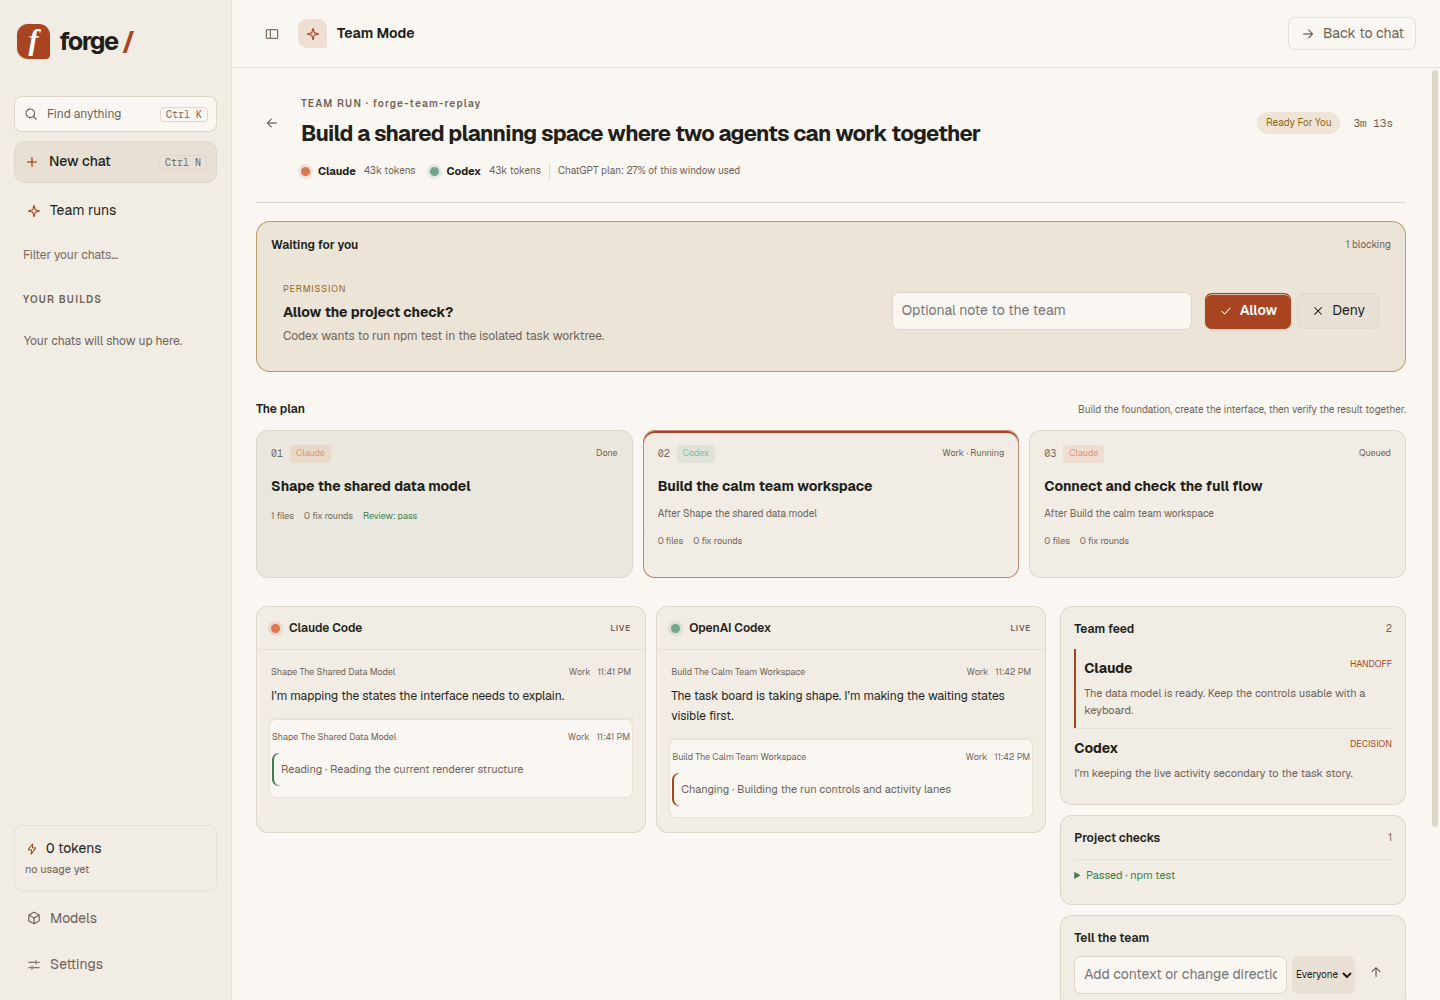
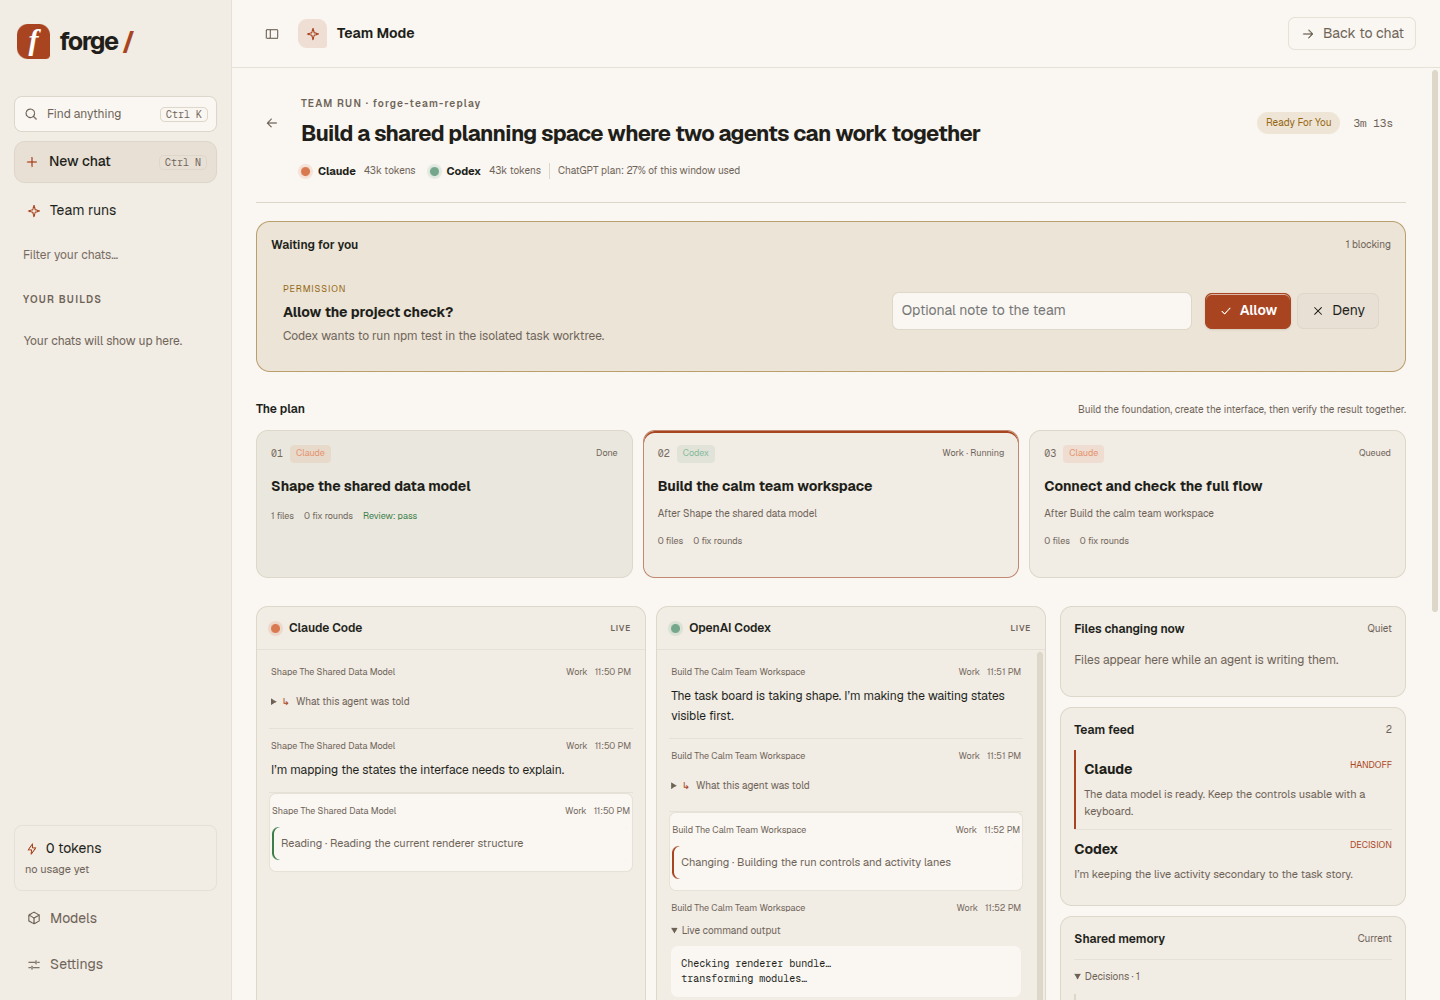
docs(ui): capture live Team views and Undo

diff --git a/docs/DESIGN.md b/docs/DESIGN.md
@@ -56,13 +56,15 @@ Team Mode is a control room, not a second chat screen. It opens from the compose
 
 - **Start with confidence.** Readiness cards show Claude Code and Codex separately, including the backend’s exact recovery command when one is unavailable. A run can start with either available agent. Advanced setup exposes planner, concurrency, cross-review, verification, agent models, Claude effort, budgets, and the usage threshold without crowding the default path. Team defaults round-trip through `teamSettingsGet/Set`.
 - **Follow the work as a story.** Task cards lead with plain-language outcomes and dependencies. Claude and Codex have distinct live lanes, while the team feed is reserved for handoffs, reviews, decisions, and user steering. Raw tool output remains inside disclosures. Usage is factual: tokens, backend cost when non-zero, and reported ChatGPT plan-window usage.
+- **See work while it is becoming.** Text deltas appear with a restrained typing cursor; thinking summaries and command output remain collapsible. Growing files replace themselves by event id instead of creating log noise. File content is syntax-highlighted locally with Monaco, while unified diffs use added/removed line color. The exact prompt for each task and phase is available behind “What this agent was told.”
+- **Keep shared context visible.** “Files changing now” comes from ephemeral `live` events and opens the exact working-tree file through `teamLiveDiff`. Shared memory groups current decisions, handoffs, messages and problems with relevant decisions, fixes and role history from earlier project runs. It refreshes on task and message events without interrupting the run.
 - **Intervene without losing context.** Soft pause waits for the current step; holding Pause performs the hard stop. Resume, cancel, retry, skip, budget extension, targeted steering, and blocking approval answers remain on the run. Interrupted runs explain that saved sessions can be resumed.
-- **Review before touching the project.** Unified diffs open on demand in a read-only Monaco diff editor and load its worker locally. The final report names changed files and verification status, then makes “Apply to my project” and “Don’t apply” explicit. Export uses `teamExportReport`; applying retains the backend checkpoint for Undo.
+- **Review before touching the project.** Unified diffs open on demand in a read-only Monaco diff editor and load its worker locally. The final report names changed files and verification status, then makes “Apply to my project” and “Don’t apply” explicit. Export uses `teamExportReport`. After Apply, a persistent Undo action warns that later hand edits to affected files will also be restored, then shows the `teamUndo` result.
 - **Return after a restart.** `teamList`, `teamGet`, and `teamEvents` rebuild the board and activity lanes. `onTeamEvent` applies live updates through the same renderer reducer, so replayed and live runs do not have separate visual semantics. Completed runs can be removed through `teamDelete`.
 - **Capability gating.** Team entry points stay hidden unless `window.forge.teamStart` exists. Optional settings, deletion, event subscription, and export controls are individually gated by hook presence.
 
 ### Team replay harness and verification
 
-The renderer includes a deterministic, quota-free replay fixture for planning, running, approval, paused, interrupted, unavailable-agent, and final states. Setting `forge.teamReplay` to `open` and `forge.teamReplayState` to a state before reload opens the fixture; the harness never calls `teamStart` or an agent CLI. It also exercises restart replay through the previous-runs list.
+The renderer includes a deterministic, quota-free replay fixture for planning, running, streaming, settled text, approval, paused, interrupted, unavailable-agent, final, and applied states. Scripted prompt, delta, growing-code, live-file, shared-memory, and Undo data exercise the same reducer and components as live hooks. Setting `forge.teamReplay` to `open` and `forge.teamReplayState` to a state before reload opens the fixture; the harness never calls `teamStart` or an agent CLI. It also exercises restart replay through the previous-runs list.
 
-On 2026-11-03 the built Electron app was run with `FORGE_PROJECT=/tmp/forge-team-ui npx electron . --remote-debugging-port=9331 --user-data-dir=/tmp/forge-team-ui-profile --ozone-platform=x11`. CDP verified the task board, both agent lanes, feed, verification output, steering, controls, lazy diff, final apply decision, composer entry, and interrupted-run replay with zero renderer exceptions. Light, dark, 1440px, and 760px captures are checked in; every PNG is below 500 KB. `npm run typecheck`, all 283 tests, and `npm run build` pass.
+On 2026-11-03 the built Electron app was run with `FORGE_PROJECT=/tmp/forge-team-ui npx electron . --remote-debugging-port=9331 --user-data-dir=/tmp/forge-team-live-final --ozone-platform=x11`. CDP verified the task board, both agent lanes, prompt disclosures, delta replacement, content and diff code, live file diff, shared memory, feed, verification output, steering, controls, final decisions, confirmed Undo, composer entry, and interrupted-run replay with zero renderer exceptions. Light, dark, 1440px, and 760px captures are checked in; every PNG is below 500 KB. `npm run typecheck`, all 284 tests, and `npm run build` pass.

diff --git a/docs/UI-REQUESTS.md b/docs/UI-REQUESTS.md
@@ -17,8 +17,4 @@ The redesign is based on the additive contract in `src/preload/index.ts`. No mai
 - `agentUndoFile(chatId, checkpoint, path)` restores individual files; its returned remaining changes refresh the card.
 - `previewStart(chatId)` powers browser-based live preview.
 - Remote engine address, test connection, save and GPU-memory controls are in Settings > Models; remote-down never offers a local engine install.
-- Team Mode consumes the complete team bridge, including event replay, approvals, lifecycle controls, diff/final decisions, saved settings, run deletion, report export, and `claudeEffort`. The core Team UI is wired; the recovery follow-up below would make the apply checkpoint actionable.
-
-## Team follow-up
-
-- **Offer Undo after applying a team run.** `teamApply` returns a checkpoint, but the existing `agentUndo(chatId, checkpoint)` only resolves checkpoints registered to a chat session. Add `teamUndo(id, checkpoint): Promise<string[]>` (or register the team checkpoint with a compatible owner) so the final Team surface can render a working Undo button. Today the UI shows the returned recovery checkpoint without claiming that it can invoke Undo.
+- Team Mode consumes the complete team bridge, including event replay, live typing/code/files, exact prompts, shared memory, approvals, lifecycle controls, diff/final decisions, saved settings, run deletion, report export, `claudeEffort`, and confirmed post-Apply `teamUndo`. No Team backend follow-up remains open.

diff --git a/docs/screenshots/README.md b/docs/screenshots/README.md
@@ -26,10 +26,12 @@ These captures use the renderer’s deterministic replay harness, so no Claude, 
 | One agent unavailable | [Light](team-entry-unavailable-light.png) | [Dark](team-entry-unavailable-dark.png) |
 | Planning | [Light](team-planning-light.png) | [Dark](team-planning-dark.png) |
 | Live run | [Light](team-running-light.png) | [Dark](team-running-dark.png) |
+| Live typing, code, files and memory | [Light](team-live-light.png) | [Dark](team-live-dark.png) |
 | Blocking approval | [Light](team-approval-light.png) | [Dark](team-approval-dark.png) |
 | Usage pause | [Light](team-paused-light.png) | [Dark](team-paused-dark.png) |
 | Restart recovery | [Light](team-interrupted-light.png) | [Dark](team-interrupted-dark.png) |
 | Final Apply / Don’t apply | [Light](team-final-light.png) | [Dark](team-final-dark.png) |
+| Applied result and Undo | [Light](team-applied-light.png) | [Dark](team-applied-dark.png) |
 | Narrow window | [Light](team-narrow-light.png) | [Dark](team-narrow-dark.png) |
 
 [Team functional results](team-functional-review.json) record the CDP assertions and zero renderer exceptions.
